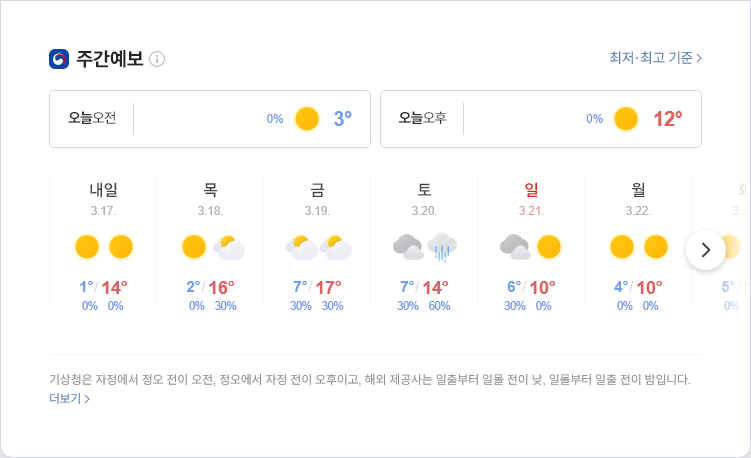
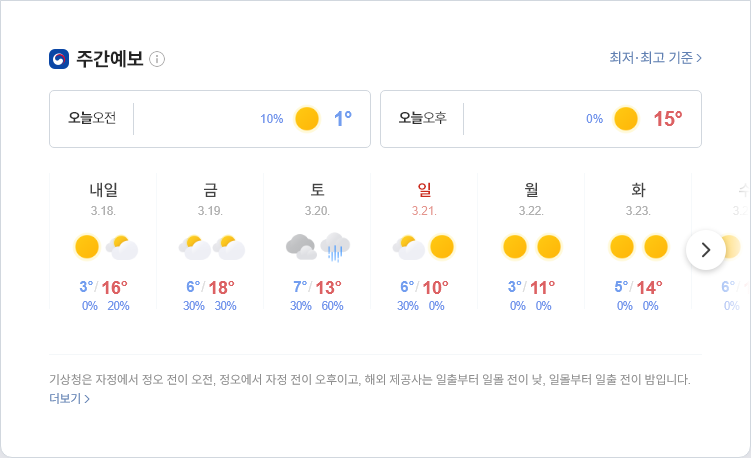
update result

diff --git a/README.md b/README.md
@@ -1,5 +1,5 @@
-##  2021-03-16 17:22:25   화요일 
-##### 날씨   -   어제보다 2° 낮아요맑음  
+##  2021-03-17 11:05:35   수요일 
+##### 날씨   -   어제와 같은 기온맑음  
 <center><img src="../img/naver_weather_week.png"></center>
 ----
 ----
@@ -13,44 +13,44 @@
 ##### 세계
 <table border="1" bordercolor="blue" align = "center" >
 <tr align = "right" > <td>Item</td><td>Point</td><td>Diff</td><td>Rate</td><td>Buy</td><td>Sell</td><td>...</td>  </tr>
-<tr align = "right" > <td>DOW</td><td>32,953.46</td><td>174.82</td><td><font size="3" color="red" >0.53%</font></td><td><font size="3" color="black">0</font></td><td><font size="3" color="black">0</font></td><td>0</td>  </tr>
-<tr align = "right" > <td>NASDAQ</td><td>13,459.71</td><td>139.84</td><td><font size="3" color="red" >1.05%</font></td><td><font size="3" color="black">0</font></td><td><font size="3" color="black">0</font></td><td>0</td>  </tr>
-<tr align = "right" > <td>S&P</td><td>3,968.94</td><td>25.6</td><td><font size="3" color="red" >0.65%</font></td><td><font size="3" color="black">0</font></td><td><font size="3" color="black">0</font></td><td>0</td>  </tr>
-<tr align = "right" > <td>SHANHAI</td><td>3,446.73</td><td>26.79</td><td><font size="3" color="red" >0.78%</font></td><td><font size="3" color="black">0</font></td><td><font size="3" color="black">0</font></td><td>0</td>  </tr>
-<tr align = "right" > <td>INDIA</td><td>50,345.15</td><td>-49.93</td><td><font size="3" color="blue" >-0.1%</font></td><td><font size="3" color="black">0</font></td><td><font size="3" color="black">0</font></td><td>0</td>  </tr>
+<tr align = "right" > <td>DOW</td><td>32,825.95</td><td>-127.51</td><td><font size="3" color="blue" >-0.39%</font></td><td><font size="3" color="black">0</font></td><td><font size="3" color="black">0</font></td><td>0</td>  </tr>
+<tr align = "right" > <td>NASDAQ</td><td>13,471.57</td><td>11.86</td><td><font size="3" color="red" >0.09%</font></td><td><font size="3" color="black">0</font></td><td><font size="3" color="black">0</font></td><td>0</td>  </tr>
+<tr align = "right" > <td>S&P</td><td>3,962.71</td><td>-6.23</td><td><font size="3" color="blue" >-0.16%</font></td><td><font size="3" color="black">0</font></td><td><font size="3" color="black">0</font></td><td>0</td>  </tr>
+<tr align = "right" > <td>SHANHAI</td><td>3,424.68</td><td>-22.05</td><td><font size="3" color="blue" >-0.64%</font></td><td><font size="3" color="black">0</font></td><td><font size="3" color="black">0</font></td><td>0</td>  </tr>
+<tr align = "right" > <td>INDIA</td><td>50,363.96</td><td>-31.12</td><td><font size="3" color="blue" >-0.06%</font></td><td><font size="3" color="black">0</font></td><td><font size="3" color="black">0</font></td><td>0</td>  </tr>
 </table>
 ----
 ##### 시장
 <table border="1" bordercolor="blue" align = "center" >
 <tr align = "right" > <td>Item</td><td>Price</td><td>Diff</td><td>Rate</td><td>Buy</td><td>Sell</td><td>...</td>  </tr>
-<tr align = "right" > <td>USD</td><td>1,131.0</td><td>-2.0</td><td><font size="3" color="blue">-0.18%</font></td><td><font size="3" color="black">1,110</font></td><td><font size="3" color="black">0</font></td><td>0</td>  </tr>
-<tr align = "right" > <td>WTI</td><td>65.39</td><td>-0.22</td><td><font size="3" color="blue">-0.33%</font></td><td><font size="3" color="black">29.0</font></td><td><font size="3" color="black">0</font></td><td>0</td>  </tr>
-<tr align = "right" > <td>GOLD</td><td>1,728.0</td><td>9.4</td><td><font size="3" color="red">0.54%</font></td><td><font size="3" color="black">0</font></td><td><font size="3" color="black">0</font></td><td>0</td>  </tr>
+<tr align = "right" > <td>USD</td><td>1,132.0</td><td>1.5</td><td><font size="3" color="red">0.13%</font></td><td><font size="3" color="black">1,110</font></td><td><font size="3" color="black">0</font></td><td>0</td>  </tr>
+<tr align = "right" > <td>WTI</td><td>64.8</td><td>-0.59</td><td><font size="3" color="blue">-0.9%</font></td><td><font size="3" color="black">29.0</font></td><td><font size="3" color="black">0</font></td><td>0</td>  </tr>
+<tr align = "right" > <td>GOLD</td><td>1,730.0</td><td>1.7</td><td><font size="3" color="red">0.09%</font></td><td><font size="3" color="black">0</font></td><td><font size="3" color="black">0</font></td><td>0</td>  </tr>
 </table>
 ----
 ##### 주가
 <table border="1" bordercolor="blue" align = "center" >
 <tr align = "right" > <td>Item</td><td>Price</td><td>Diff</td><td>Rate</td><td>Purchased</td><td>Sell</td><td>Buy</td>  </tr>
-<tr align = "right" > <td>한국 전력</td><td>24,750</td><td>1,500</td><td><font size="3" color="red">6.45%</font></td><td>25,720</td><td><font size="3" color="black">27,700</font></td><td><font size="3" color="black">20,700</font></td>  </tr>
-<tr align = "right" > <td>삼성엔지니어.</td><td>13,400</td><td>100</td><td><font size="3" color="red">0.75%</font></td><td>18,935</td><td><font size="3" color="black">20,000</font></td><td><font size="3" color="black">8,000</font></td>  </tr>
-<tr align = "right" > <td>CJ CGV</td><td>29,200</td><td>100</td><td><font size="3" color="red">0.34%</font></td><td>34,895</td><td><font size="3" color="black">36,000</font></td><td><font size="3" color="black">0</font></td>  </tr>
-<tr align = "right" > <td>아모레퍼시픽</td><td>227,500</td><td>1,000</td><td><font size="3" color="red">0.44%</font></td><td>235,350</td><td><font size="3" color="black">240,000</font></td><td><font size="3" color="black">130,000</font></td>  </tr>
-<tr align = "right" > <td>한화</td><td>29,600</td><td>100</td><td><font size="3" color="red">0.34%</font></td><td>25,550</td><td><font size="3" color="black">26,250</font></td><td><font size="3" color="black">26,250</font></td>  </tr>
-<tr align = "right" > <td>NAVER</td><td>385,500</td><td>2,500</td><td><font size="3" color="red">0.65%</font></td><td>147,200</td><td><font size="3" color="black">386,000</font></td><td><font size="3" color="black">286,000</font></td>  </tr>
-<tr align = "right" > <td>LG 화학우</td><td>392,500</td><td>-25,000</td><td><font size="3" color="blue">-5.99%</font></td><td>202,490</td><td><font size="3" color="black">384,000</font></td><td><font size="3" color="black">384,000</font></td>  </tr>
-<tr align = "right" > <td>스튜디오드래.</td><td>96,800</td><td>2,800</td><td><font size="3" color="red">2.98%</font></td><td>81,243</td><td><font size="3" color="black">85,200</font></td><td><font size="3" color="black">85,200</font></td>  </tr>
-<tr align = "right" > <td>QV미국IT</td><td>25,925</td><td>235</td><td><font size="3" color="red">0.91%</font></td><td>0</td><td><font size="3" color="black">30,000</font></td><td><font size="3" color="black">20,000</font></td>  </tr>
-<tr align = "right" > <td>삼성 전자우</td><td>73,800</td><td>700</td><td><font size="3" color="red">0.96%</font></td><td>48,250</td><td><font size="3" color="black">56,000</font></td><td><font size="3" color="black">45,000</font></td>  </tr>
-<tr align = "right" > <td>LS</td><td>67,400</td><td>2,100</td><td><font size="3" color="red">3.22%</font></td><td>71,900</td><td><font size="3" color="black">82,000</font></td><td><font size="3" color="black">60,000</font></td>  </tr>
-<tr align = "right" > <td>한화에어로스.</td><td>40,700</td><td>-600</td><td><font size="3" color="blue">-1.45%</font></td><td>25,700</td><td><font size="3" color="black">30,000</font></td><td><font size="3" color="black">24,000</font></td>  </tr>
-<tr align = "right" > <td>카카오</td><td>479,000</td><td>0</td><td><font size="3" color="black">0.0%</font></td><td>405,500</td><td><font size="3" color="black">440,000</font></td><td><font size="3" color="black">400,000</font></td>  </tr>
-<tr align = "right" > <td>호텔 신라</td><td>87,000</td><td>-200</td><td><font size="3" color="blue">-0.23%</font></td><td>72,800</td><td><font size="3" color="black">100,000</font></td><td><font size="3" color="black">70,000</font></td>  </tr>
-<tr align = "right" > <td>S-Oil</td><td>83,200</td><td>-1,200</td><td><font size="3" color="blue">-1.42%</font></td><td>62,842</td><td><font size="3" color="black">100,000</font></td><td><font size="3" color="black">50,000</font></td>  </tr>
-<tr align = "right" > <td>LG전자</td><td>158,000</td><td>6,500</td><td><font size="3" color="red">4.29%</font></td><td>82,022</td><td><font size="3" color="black">100,000</font></td><td><font size="3" color="black">60,000</font></td>  </tr>
-<tr align = "right" > <td>KT&G</td><td>80,200</td><td>0</td><td><font size="3" color="black">0.0%</font></td><td>80,400</td><td><font size="3" color="black">100,000</font></td><td><font size="3" color="black">70,000</font></td>  </tr>
-<tr align = "right" > <td>지역난방공사</td><td>38,200</td><td>550</td><td><font size="3" color="red">1.46%</font></td><td>43,590</td><td><font size="3" color="black">60,000</font></td><td><font size="3" color="black">30,000</font></td>  </tr>
-<tr align = "right" > <td>KOEDX은행</td><td>7,025</td><td>15</td><td><font size="3" color="red">0.21%</font></td><td>5,178</td><td><font size="3" color="black">6,225</font></td><td><font size="3" color="black">6,225</font></td>  </tr>
-<tr align = "right" > <td>글로벌럭셔리</td><td>16,905</td><td>205</td><td><font size="3" color="red">1.23%</font></td><td>15,260</td><td><font size="3" color="black">20,000</font></td><td><font size="3" color="black">10,000</font></td>  </tr>
-<tr align = "right" > <td>한국금융지주</td><td>87,200</td><td>300</td><td><font size="3" color="red">0.35%</font></td><td>0</td><td><font size="3" color="black">82,000</font></td><td><font size="3" color="black">60,000</font></td>  </tr>
+<tr align = "right" > <td>한국 전력</td><td>24,650</td><td>-100</td><td><font size="3" color="blue">-0.4%</font></td><td>25,720</td><td><font size="3" color="black">27,700</font></td><td><font size="3" color="black">20,700</font></td>  </tr>
+<tr align = "right" > <td>삼성엔지니어.</td><td>13,500</td><td>100</td><td><font size="3" color="red">0.75%</font></td><td>18,935</td><td><font size="3" color="black">20,000</font></td><td><font size="3" color="black">8,000</font></td>  </tr>
+<tr align = "right" > <td>CJ CGV</td><td>28,950</td><td>-250</td><td><font size="3" color="blue">-0.86%</font></td><td>34,895</td><td><font size="3" color="black">36,000</font></td><td><font size="3" color="black">0</font></td>  </tr>
+<tr align = "right" > <td>아모레퍼시픽</td><td>232,500</td><td>5,000</td><td><font size="3" color="red">2.2%</font></td><td>235,350</td><td><font size="3" color="black">240,000</font></td><td><font size="3" color="black">130,000</font></td>  </tr>
+<tr align = "right" > <td>한화</td><td>29,300</td><td>-300</td><td><font size="3" color="blue">-1.01%</font></td><td>25,550</td><td><font size="3" color="black">26,250</font></td><td><font size="3" color="black">26,250</font></td>  </tr>
+<tr align = "right" > <td>NAVER</td><td>386,000</td><td>500</td><td><font size="3" color="red">0.13%</font></td><td>147,200</td><td><font size="3" color="black">386,000</font></td><td><font size="3" color="black">286,000</font></td>  </tr>
+<tr align = "right" > <td>LG 화학우</td><td>379,500</td><td>-13,000</td><td><font size="3" color="blue">-3.31%</font></td><td>202,490</td><td><font size="3" color="black">384,000</font></td><td><font size="3" color="orangered">384,000</font></td>  </tr>
+<tr align = "right" > <td>스튜디오드래.</td><td>96,100</td><td>-700</td><td><font size="3" color="blue">-0.72%</font></td><td>81,243</td><td><font size="3" color="black">85,200</font></td><td><font size="3" color="black">85,200</font></td>  </tr>
+<tr align = "right" > <td>QV미국IT</td><td>26,135</td><td>210</td><td><font size="3" color="red">0.81%</font></td><td>0</td><td><font size="3" color="black">30,000</font></td><td><font size="3" color="black">20,000</font></td>  </tr>
+<tr align = "right" > <td>삼성 전자우</td><td>73,700</td><td>-100</td><td><font size="3" color="blue">-0.14%</font></td><td>48,250</td><td><font size="3" color="black">56,000</font></td><td><font size="3" color="black">45,000</font></td>  </tr>
+<tr align = "right" > <td>LS</td><td>66,400</td><td>-1,000</td><td><font size="3" color="blue">-1.48%</font></td><td>71,900</td><td><font size="3" color="black">82,000</font></td><td><font size="3" color="black">60,000</font></td>  </tr>
+<tr align = "right" > <td>한화에어로스.</td><td>40,700</td><td>0</td><td><font size="3" color="black">0.0%</font></td><td>25,700</td><td><font size="3" color="black">30,000</font></td><td><font size="3" color="black">24,000</font></td>  </tr>
+<tr align = "right" > <td>카카오</td><td>484,500</td><td>5,500</td><td><font size="3" color="red">1.15%</font></td><td>405,500</td><td><font size="3" color="black">440,000</font></td><td><font size="3" color="black">400,000</font></td>  </tr>
+<tr align = "right" > <td>호텔 신라</td><td>87,600</td><td>600</td><td><font size="3" color="red">0.69%</font></td><td>72,800</td><td><font size="3" color="black">100,000</font></td><td><font size="3" color="black">70,000</font></td>  </tr>
+<tr align = "right" > <td>S-Oil</td><td>81,500</td><td>-1,700</td><td><font size="3" color="blue">-2.04%</font></td><td>62,842</td><td><font size="3" color="black">100,000</font></td><td><font size="3" color="black">50,000</font></td>  </tr>
+<tr align = "right" > <td>LG전자</td><td>159,000</td><td>1,000</td><td><font size="3" color="red">0.63%</font></td><td>82,022</td><td><font size="3" color="black">100,000</font></td><td><font size="3" color="black">60,000</font></td>  </tr>
+<tr align = "right" > <td>KT&G</td><td>80,100</td><td>-100</td><td><font size="3" color="blue">-0.12%</font></td><td>80,400</td><td><font size="3" color="black">100,000</font></td><td><font size="3" color="black">70,000</font></td>  </tr>
+<tr align = "right" > <td>지역난방공사</td><td>38,050</td><td>-150</td><td><font size="3" color="blue">-0.39%</font></td><td>43,590</td><td><font size="3" color="black">60,000</font></td><td><font size="3" color="black">30,000</font></td>  </tr>
+<tr align = "right" > <td>KOEDX은행</td><td>6,960</td><td>-65</td><td><font size="3" color="blue">-0.93%</font></td><td>5,178</td><td><font size="3" color="black">6,225</font></td><td><font size="3" color="black">6,225</font></td>  </tr>
+<tr align = "right" > <td>글로벌럭셔리</td><td>16,905</td><td>0</td><td><font size="3" color="black">0.0%</font></td><td>15,260</td><td><font size="3" color="black">20,000</font></td><td><font size="3" color="black">10,000</font></td>  </tr>
+<tr align = "right" > <td>한국금융지주</td><td>86,200</td><td>-1,000</td><td><font size="3" color="blue">-1.15%</font></td><td>0</td><td><font size="3" color="black">82,000</font></td><td><font size="3" color="black">60,000</font></td>  </tr>
 </table>
 ----
